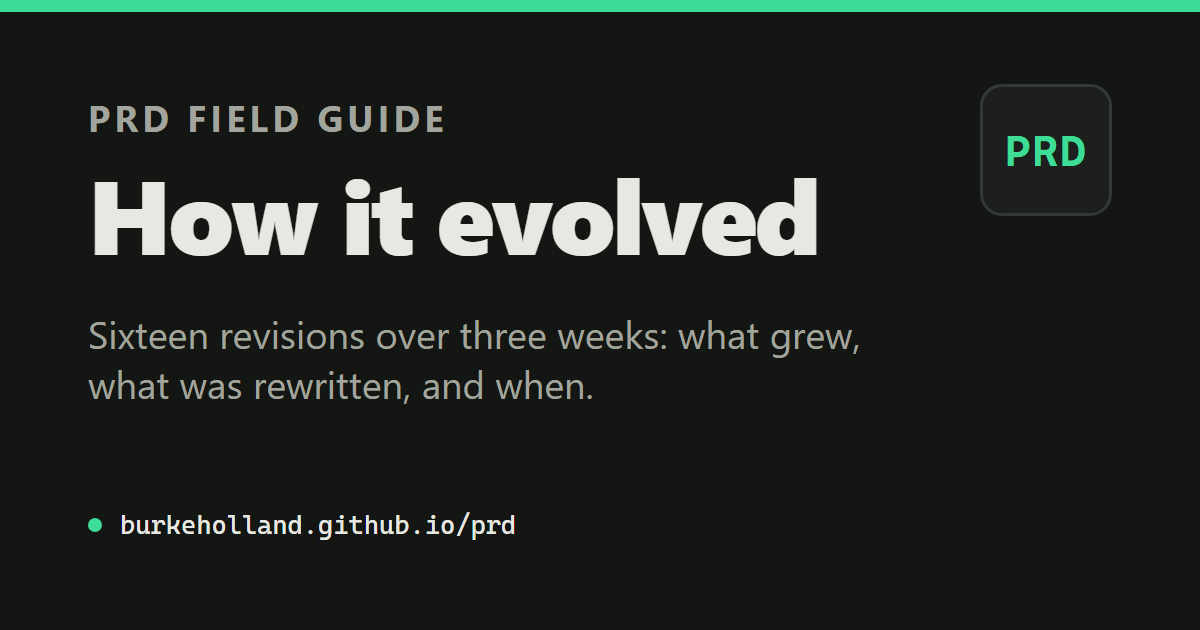
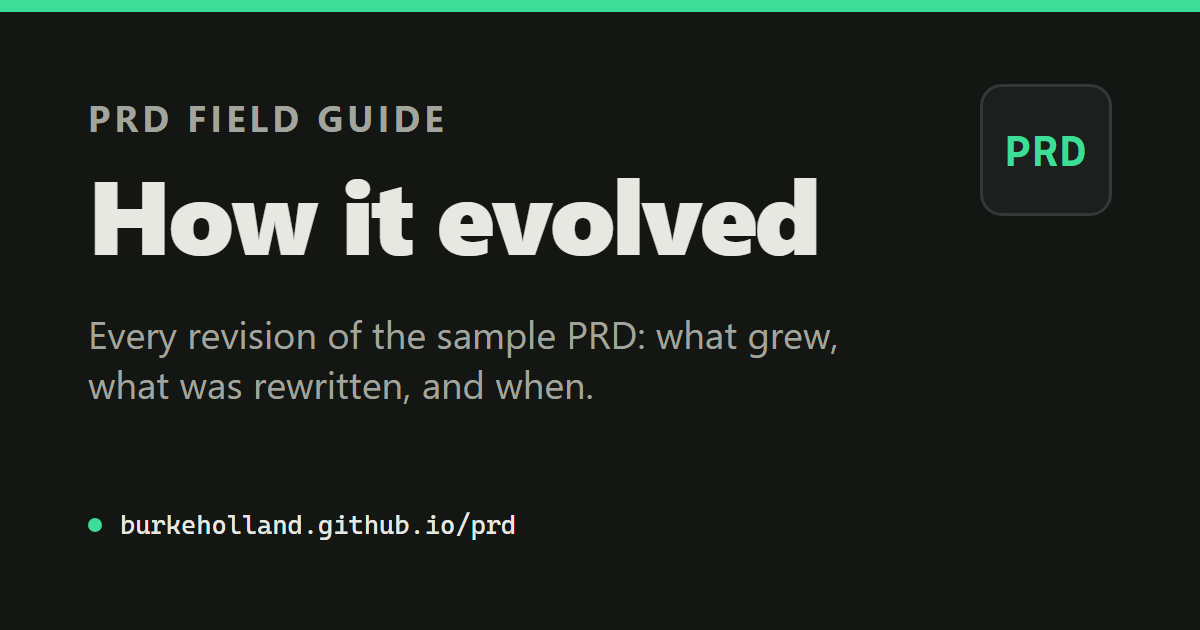
History share card: drop the revision count from the subtitle so the committed PNG cannot go stale

Changed region(s): [[0.0617, 0.5127, 0.7092, 0.573]]

diff --git a/src/lib/seo.ts b/src/lib/seo.ts
@@ -65,7 +65,7 @@ export const SOCIAL_CARDS = {
   '/history/': pageCard(
     '/og/history.png',
     'How it evolved',
-    'Sixteen revisions over three weeks: what grew, what was rewritten, and when.',
+    'Every revision of the sample PRD: what grew, what was rewritten, and when.',
   ),
   '/template/': pageCard(
     '/og/template.png',
